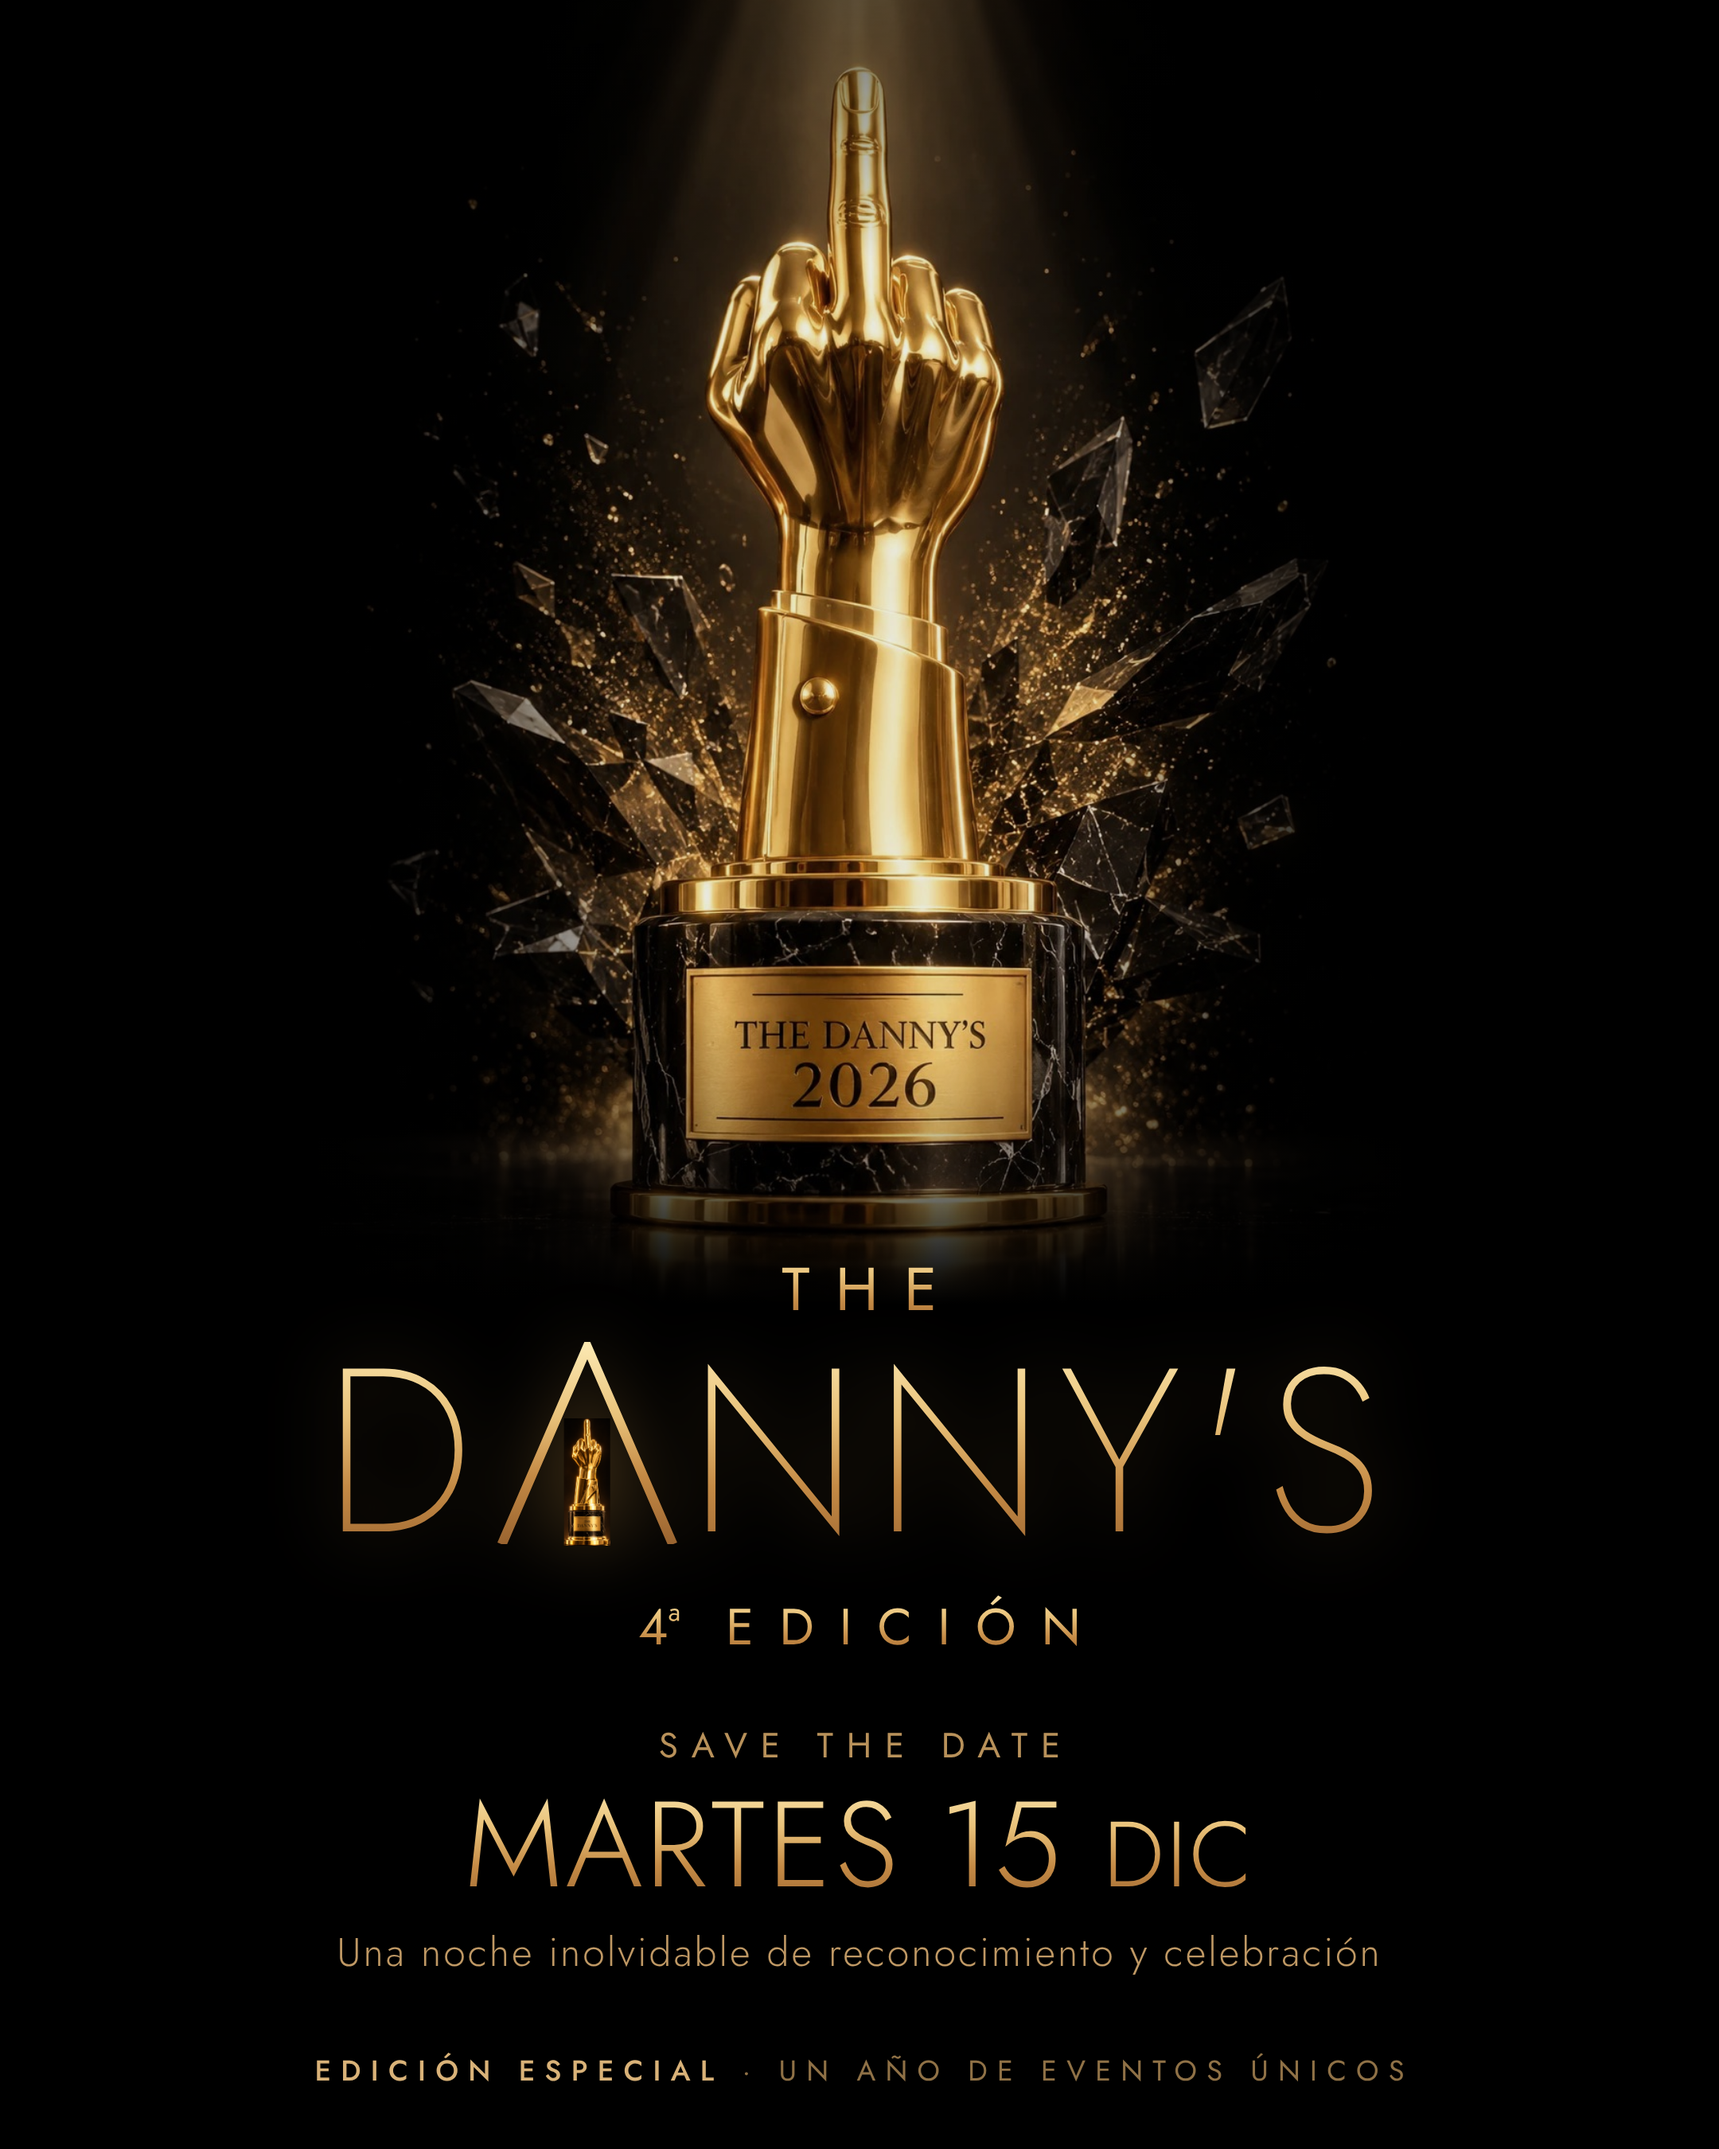
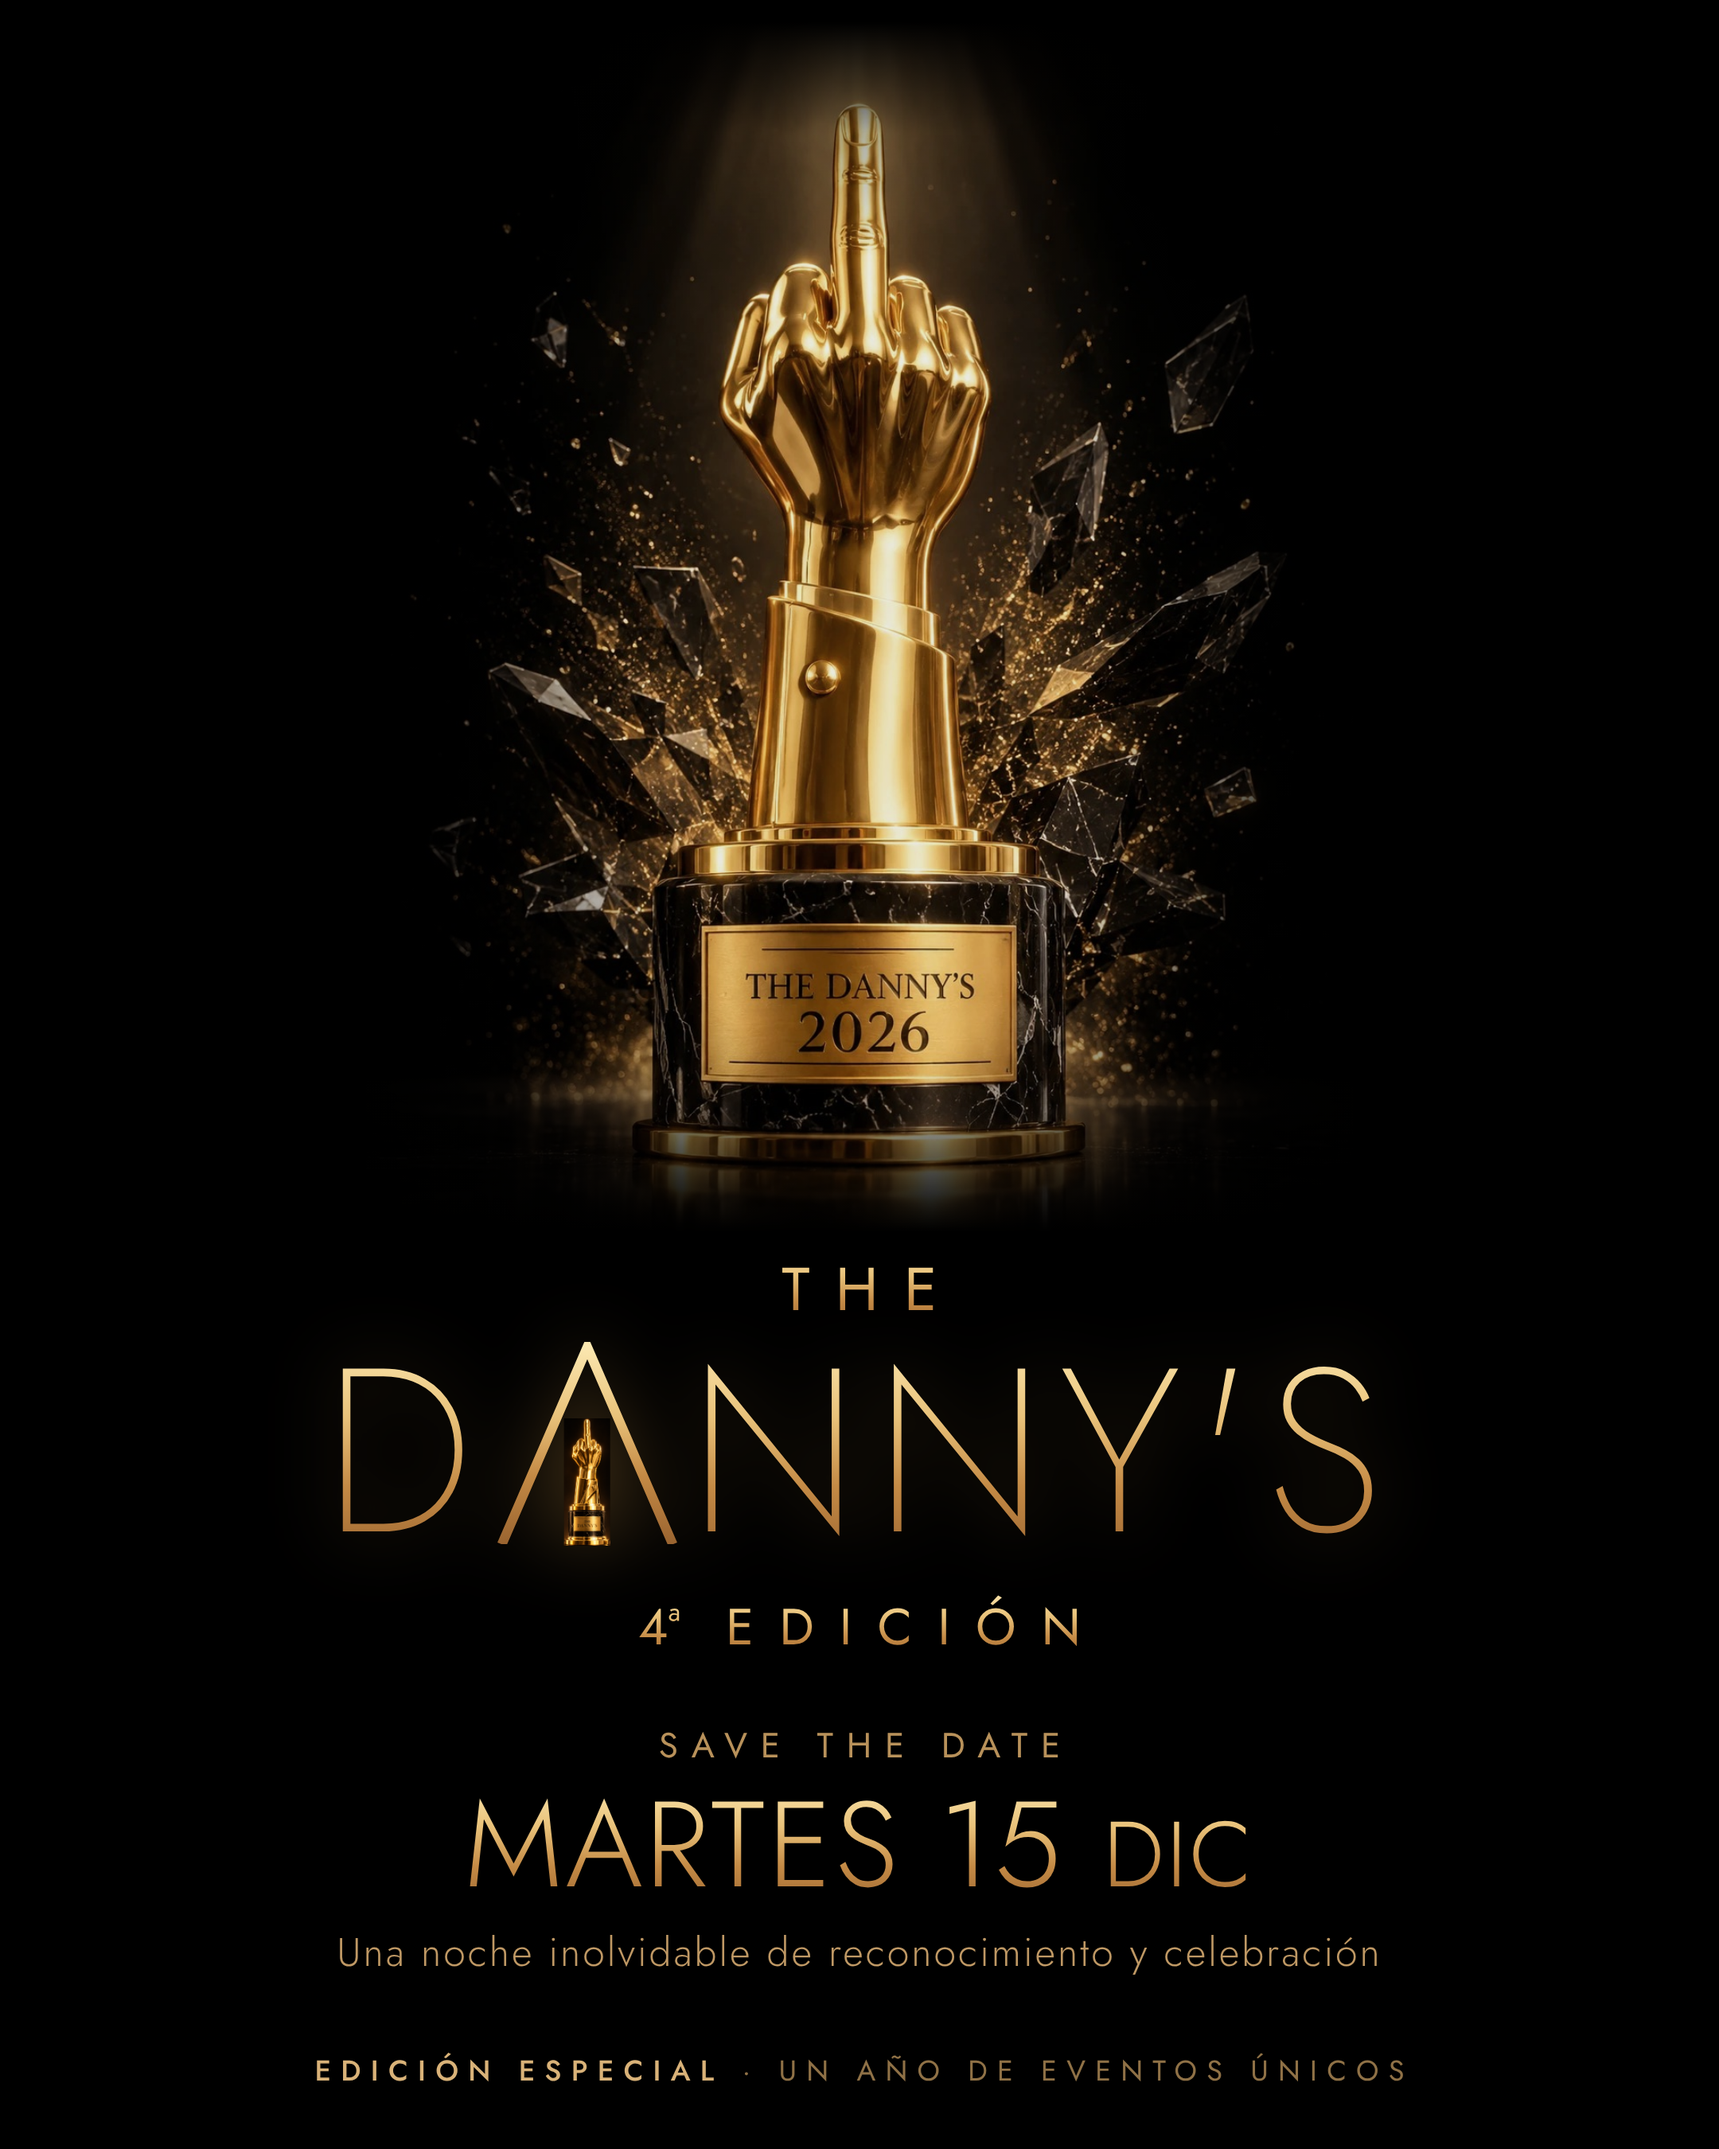
Invitación Oscars: trofeo un poco más pequeño
Claude-Session: https://claude.ai/code/session_015PSqTBVarzJxbZCqpwc4XT

Changed region(s): [[0.2792, 0.0, 0.7755, 0.5911], [0.2792, 0.1244, 0.3412, 0.1867]]

diff --git a/invitaciones/invitacion-oscars.html b/invitaciones/invitacion-oscars.html
@@ -16,14 +16,14 @@
     font-family:'Jost',sans-serif;color:#d9b278;text-align:center;
   }
   .hero{
-    position:absolute;left:50%;top:-14px;transform:translateX(-50%);
-    width:680px;
+    position:absolute;left:50%;top:14px;transform:translateX(-50%);
+    width:620px;
     -webkit-mask-image:
-      linear-gradient(180deg,#000 0%,#000 86%,transparent 98%),
+      linear-gradient(180deg,transparent 0%,#000 9%,#000 86%,transparent 98%),
       radial-gradient(ellipse 66% 80% at 50% 46%,#000 62%,transparent 100%);
     -webkit-mask-composite:source-in;
             mask-image:
-      linear-gradient(180deg,#000 0%,#000 86%,transparent 98%),
+      linear-gradient(180deg,transparent 0%,#000 9%,#000 86%,transparent 98%),
       radial-gradient(ellipse 66% 80% at 50% 46%,#000 62%,transparent 100%);
             mask-composite:intersect;
   }
